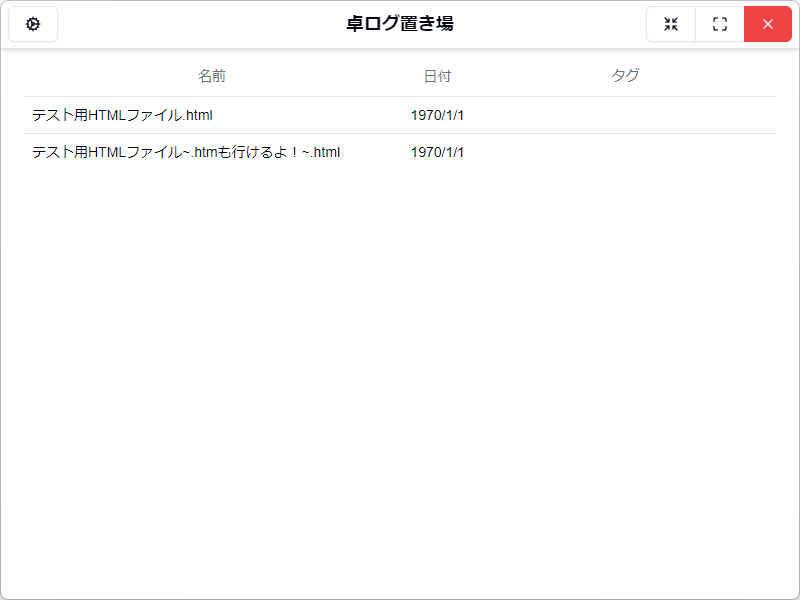
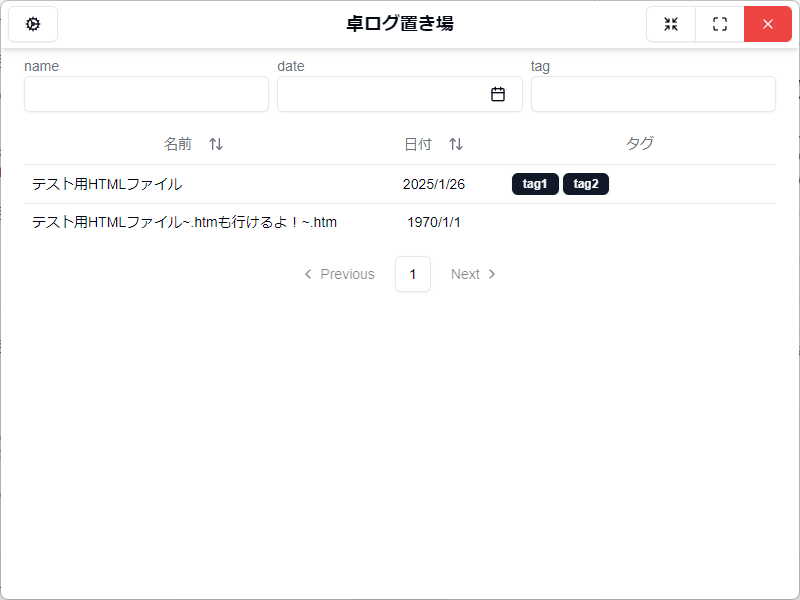
機能追加に伴うreadmeの更新

diff --git a/README.md b/README.md
@@ -2,16 +2,42 @@
 
 ## 概要
 
-TRPGのセッションログなどのhtmlファイルを管理閲覧するためのwindowsデスクトップアプリ。  
-複数フォルダのセッションログを一覧表示したり、並び変えたり（未実装）、絞り込んだり（未実装）、名前・日付・タグを記録したり（未実装）。
+TRPG のセッションログなどの html ファイルを管理閲覧するための windows デスクトップアプリ。  
+複数フォルダのセッションログを一覧表示したり、並び変えたり、絞り込んだり、名前・日付・タグを記録したり。
 
 ## 機能
 
 ### ログ一覧画面
 
-ログファイルを表形式で一覧表示します。
+ログファイルを表形式で一覧表示します。  
+表のヘッダーをクリックすると名前か日付でソートが行えます。  
+再度クリックすると昇順と降順を切り替えられます。
 
 ![基本画面](./doc/image01.png)
+
+#### 絞り込み機能
+
+表の上の入力欄から、一覧のデータを絞り込む事ができます。
+
+- 名前を空白区切り・部分一致で検索
+- 日付を範囲指定で検索
+- タグを複数指定・完全一致で検索
+
+![検索機能-名前](./doc/image-search-name.png)
+![検索機能-日付](./doc/image-search-date.png)
+![検索機能-タグ](./doc/image-search-tag.png)
+
+#### 編集機能
+
+一覧の行を右クリックで、編集用のコンテキストメニューが開かれます。  
+変更内容を入力するとデータが更新されます。  
+（並びは現在の表示順のままなので、ソートを行う場合はカラムヘッダーを再度クリックする必要あり。）
+
+> [!TIP]
+> データの編集はhtmlファイルそのものを操作するのではなく、htmlファイルが置かれているフォルダに「modifier.json」という設定ファイルを作成して読み込んでいます。  
+> テキストディタ等での編集を行うと予期せぬエラーが発生する恐れがあります。どうしようもなくなった場合は削除してください。
+
+![編集機能](./doc/image-edit.png)
 
 ### ログ監視フォルダの設定
 
@@ -19,31 +45,39 @@ TRPGのセッションログなどのhtmlファイルを管理閲覧するため
 画面左上の歯車マークのボタンをクリックすると監視するフォルダが一覧で表示されます。  
 追加ボタンで開くダイアログからフォルダを選択すれば、新たに登録することができます。
 
-![基本画面](./doc/image02.png)
+> [!NOTE]
+> 機能が不十分です。  
+> 現バージョンでは監視フォルダを削除したい場合は、AppDataフォルダにある「卓ログ置き場」フォルダ内のsetting.jsonからお願いします。
+
+![基本画面](./doc/image-monitoring.png)
 
 ### ログ閲覧画面
 
-ログ一覧画面の表からクリックでログ閲覧画面に遷移します。
+ログ一覧画面の表からクリックでログ閲覧画面に遷移します。  
 ログの中身が（ちょっぴり整形されて）表示され、閲覧することができます。
 
 ![基本画面](./doc/image03.png)
 
+***
+
 ## 今後の実装予定
 
-- ログ一覧画面
-  - 名前や日時、タグの編集
-  - 名前や日時での並び替え
 - ログ監視フォルダの設定
   - 設定したフォルダの削除機能  
-    現在はuser\AppData\Roaming\卓ログ置き場\setting.jsonからしか編集できません(´・ω・`)
+    現在は user\AppData\Roaming\卓ログ置き場\setting.json からしか編集できません(´・ω・`)
 - ログ閲覧画面
   - メイン、情報、雑談の表示差分化
   - どこまで読んだかのブックマーク機能
 
 ## 更新履歴
 
-- **v1.0.1** (2025-01-16)  
-  - 作成を忘れてたreadmeを追加
+- **v1.1.0** (2025-01-26)
+  - ログ一覧画面の機能追加
+    - 表示データ編集機能を追加。
+    - ソート・フィルタリング機能追加。
+    - ページネーションも追加。
+- **v1.0.1** (2025-01-16)
+  - 作成を忘れてた readme を追加
   - ログ閲覧画面で改行後の文章が消えてしまうバグ修正
-- **v1.0.0** (2025-01-16)  
+- **v1.0.0** (2025-01-16)
   - ログ管理アプリ「卓ログ置き場」リリース！
